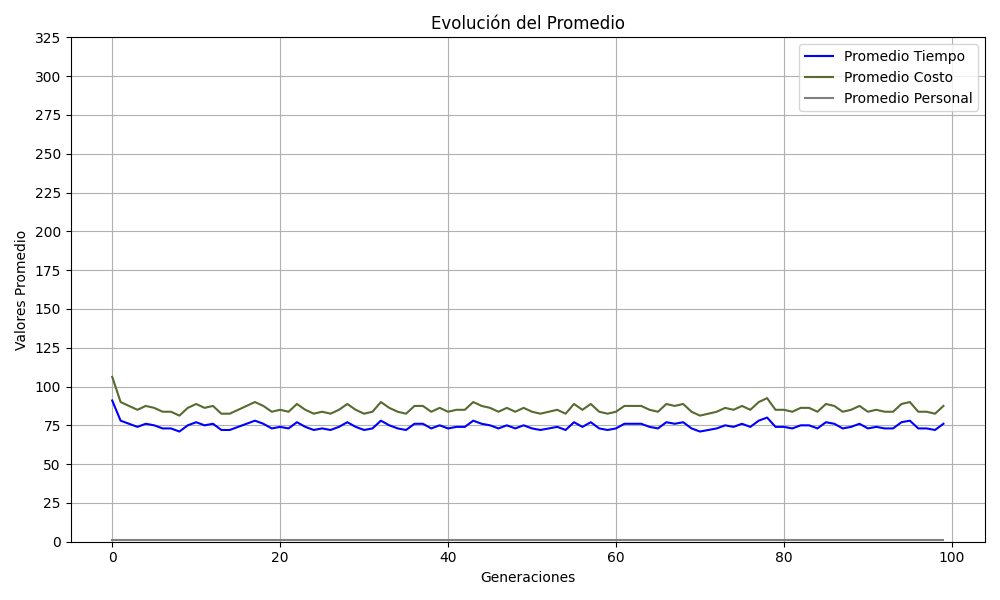
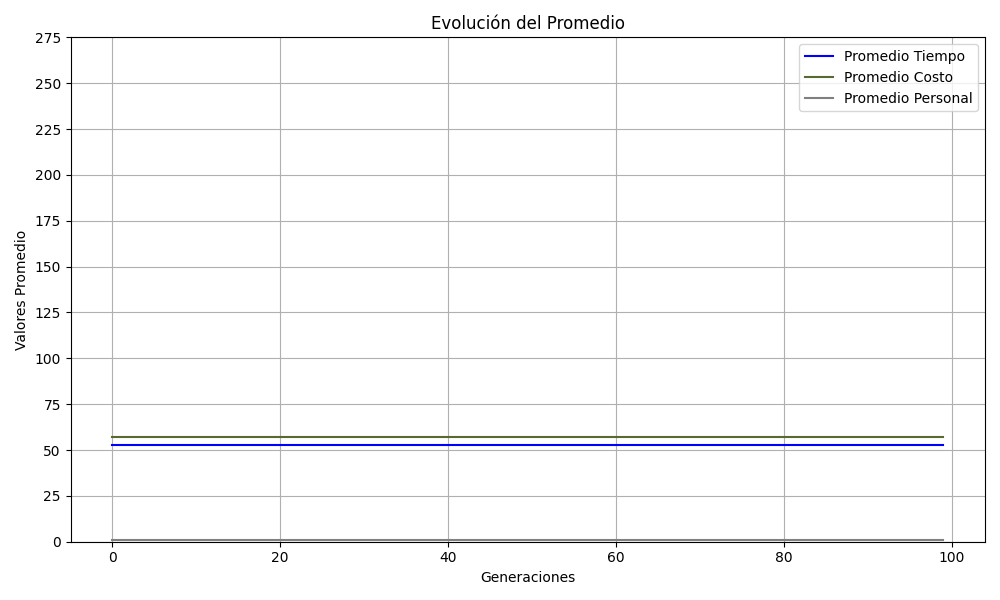
[ADD] new structure with duende

diff --git a/app.py b/app.py
@@ -50,23 +50,44 @@ def crear_individuo(actividades):
 def crear_poblacion(tamano, actividades):
     return [crear_individuo(random.sample(actividades, len(actividades))) for _ in range(tamano)]
 
-def seleccionar_padres(poblacion):
-    poblacion.sort(key=lambda x: x.aptitud)
-    return poblacion[:2]
+def formar_parejas(poblacion):
+    parejas = []
+    n = len(poblacion)
+    for individuo in poblacion:
+        m = random.randint(1, n)
+        indices = random.sample(range(n), m)
+        indices = [i for i in indices if i != poblacion.index(individuo)]
+        for indice in indices:
+            parejas.append((individuo, poblacion[indice]))
+    return parejas
 
 def cruce(padre1, padre2):
-    punto_cruce = random.randint(1, len(padre1.actividades) - 1)
+    punto_cruce = len(padre1.actividades) // 2
     hijo1_actividades = padre1.actividades[:punto_cruce] + padre2.actividades[punto_cruce:]
-    hijo2_actividades = padre2.actividades[:punto_cruce] + padre1.actividades[punto_cruce:]
+    hijo2_actividades = padre2.actividades[:punto_cruce] + padre1.actividades[:punto_cruce:]
     return crear_individuo(hijo1_actividades), crear_individuo(hijo2_actividades)
 
-def mutar(individuo, tasa_mutacion, actividades):
-    if random.random() < tasa_mutacion:
-        individuo.actividades = random.sample(actividades, len(individuo.actividades))
+def mutar(individuo, tasa_mutacion_gen, tasa_mutacion_individuo, actividades):
+    if random.random() < tasa_mutacion_individuo:
+        for i in range(len(individuo.actividades)):
+            if random.random() < tasa_mutacion_gen:
+                nuevo_actividad = random.choice(actividades)
+                individuo.actividades[i] = nuevo_actividad
         individuo.personal, individuo.tiempo, individuo.costo = individuo.calcular_datos()
         individuo.aptitud = individuo.evaluar_aptitud()
 
-def algoritmo_genetico(tamano_poblacion, actividades, generaciones, tasa_mutacion):
+def podar_poblacion(poblacion, poblacion_maxima):
+    poblacion_unica = {individuo.aptitud: individuo for individuo in poblacion}.values()
+    mejor_individuo = min(poblacion_unica, key=lambda x: x.aptitud)
+    poblacion_restante = [ind for ind in poblacion_unica if ind != mejor_individuo]
+    num_eliminar = len(poblacion_restante) - (poblacion_maxima - 1)
+    if num_eliminar > 0:
+        eliminar = random.sample(poblacion_restante, num_eliminar)
+        poblacion_restante = [ind for ind in poblacion_restante if ind not in eliminar]
+    poblacion_restante.append(mejor_individuo)
+    return poblacion_restante
+
+def algoritmo_genetico(tamano_poblacion, actividades, generaciones, tasa_mutacion_gen, tasa_mutacion_individuo):
     poblacion = crear_poblacion(tamano_poblacion, actividades)
     evolucion_mejor_aptitud = []
     evolucion_tiempos = []
@@ -76,15 +97,18 @@ def algoritmo_genetico(tamano_poblacion, actividades, generaciones, tasa_mutacio
     evolucion_mejor = []
 
     for generacion in range(generaciones):
-        padres = seleccionar_padres(poblacion)
+        parejas = formar_parejas(poblacion)
         descendencia = []
-        while len(descendencia) < tamano_poblacion:
-            hijo1, hijo2 = cruce(padres[0], padres[1])
-            mutar(hijo1, tasa_mutacion, actividades)
-            mutar(hijo2, tasa_mutacion, actividades)
+
+        for pareja in parejas:
+            hijo1, hijo2 = cruce(pareja[0], pareja[1])
+            mutar(hijo1, tasa_mutacion_gen, tasa_mutacion_individuo, actividades)
+            mutar(hijo2, tasa_mutacion_gen, tasa_mutacion_individuo, actividades)
             descendencia.append(hijo1)
             descendencia.append(hijo2)
-        poblacion = descendencia
+
+        poblacion.extend(descendencia)
+        poblacion = podar_poblacion(poblacion, tamano_poblacion)
 
         mejor_individuo = min(poblacion, key=lambda x: x.aptitud)
         peor_individuo = max(poblacion, key=lambda x: x.aptitud)
@@ -113,6 +137,12 @@ def algoritmo_genetico(tamano_poblacion, actividades, generaciones, tasa_mutacio
             'costo': mejor_individuo.costo,
             'personal': mejor_individuo.personal
         })
+
+         # Imprimir en consola los datos del peor, promedio y mejor individuo
+        print(f"Generación {generacion + 1}:")
+        print(f"  Peor - Tiempo: {peor_individuo.tiempo}, Costo: {peor_individuo.costo}, Personal: {peor_individuo.personal}")
+        print(f"  Promedio - Tiempo: {tiempo_promedio}, Costo: {costo_promedio}, Personal: {personal_promedio}")
+        print(f"  Mejor - Tiempo: {mejor_individuo.tiempo}, Costo: {mejor_individuo.costo}, Personal: {mejor_individuo.personal}")
 
     return peor_individuo, mejor_individuo, evolucion_mejor_aptitud, evolucion_tiempos, evolucion_costos, evolucion_peor, evolucion_promedio, evolucion_mejor
 
@@ -144,10 +174,11 @@ def index():
         actividades_usuario = [ACTIVIDADES_LIMPIEZA[int(index)] for index in actividades_seleccionadas]
 
         peor_individuo, mejor_individuo, evolucion_mejor_aptitud, evolucion_tiempos, evolucion_costos, evolucion_peor, evolucion_promedio, evolucion_mejor = algoritmo_genetico(
-            tamano_poblacion=20,
+            tamano_poblacion=26,
             actividades=actividades_usuario,
             generaciones=100,
-            tasa_mutacion=0.2
+            tasa_mutacion_gen=0.9,
+            tasa_mutacion_individuo=0.9
         )
 
         peor = calcular_datos(actividades_usuario, 1, peor=True)
